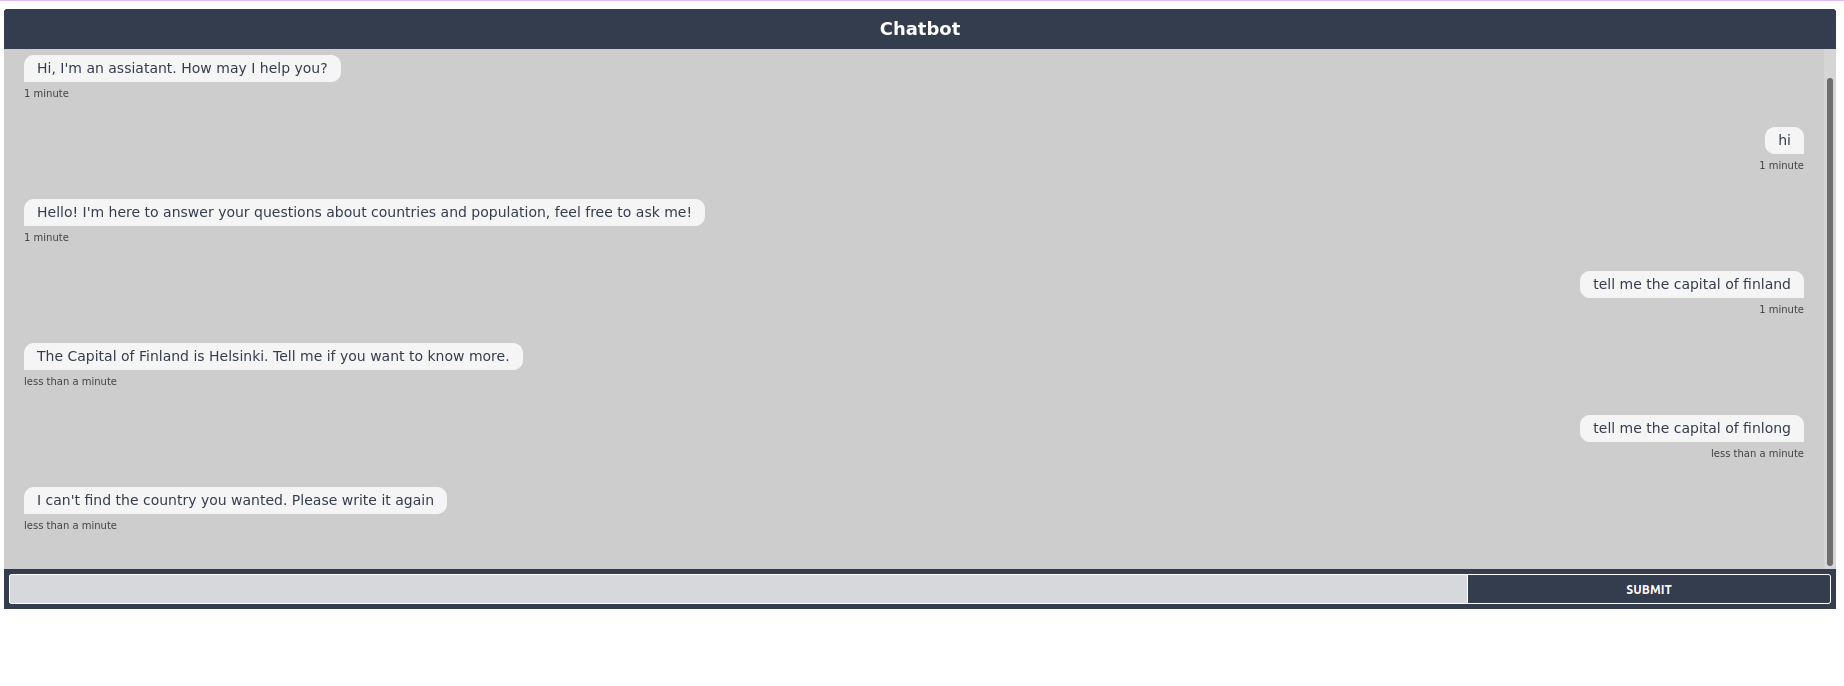
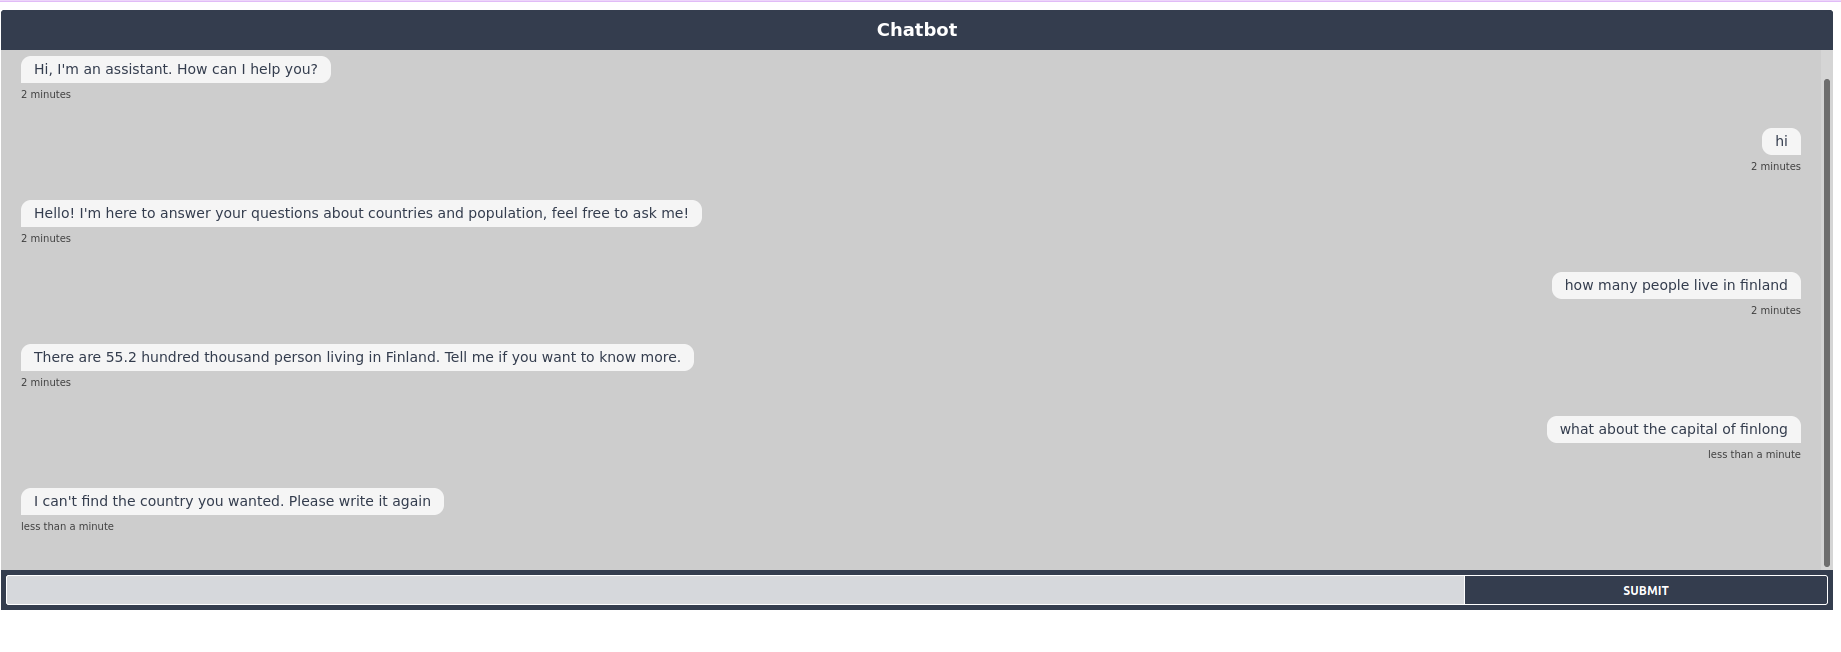
lakhs/crores

diff --git a/actions/actions.py b/actions/actions.py
@@ -8,6 +8,7 @@ from rasa_sdk.executor import CollectingDispatcher
 from rasa_sdk.knowledge_base.storage import InMemoryKnowledgeBase
 from rasa_sdk.knowledge_base.actions import ActionQueryKnowledgeBase
 from actions.country import check_country
+from actions.converter import convert
 
 class ActionCapital(Action):
 
@@ -61,7 +62,9 @@ class ActionPopulation(Action):
                     response = requests.post(client_pop, json ={'country':country})
                     if response.json()['success']==1:
                          population = response.json()['body']['population']
-                         dispatcher.utter_message(text=f"There are {population} person living in {country}. Tell me if you want to know more.")  		
+                         # this function to convert lakhs & crocres to an understandable values.
+                         number= convert(population)/10**6
+                         dispatcher.utter_message(text=f"The population of {country} is {number} million. Tell me if you want to know more.")  		
                     else:
                          dispatcher.utter_message(text=f"Very sorry, there's a problem right now :(")
                 break

diff --git a/actions/converter.py b/actions/converter.py
@@ -1,0 +1,24 @@
+import re
+
+
+def convert(s):
+    '''
+    this function converts lakhs and crores to more user-friendly numbers.
+    INPUT:
+     s: string from API ex: "1.07 lakhs"
+    OUTPUT:
+     number: the float number in the string
+     final_value: value converted in english numbering system
+    '''
+    number = re.findall(r"[0-9.]+",s)[0]
+    word = re.findall(r"[a-zA-Z]+",s)[0]
+    final_value = 0
+    if word == "lakhs":
+         final_value = 10 **5
+         # f'*10\N{SUPERSCRIPT FIVE}'#"hundred thousand"
+    elif word == "crores":
+         final_value = 10**7#"ten million"
+         
+    return float(number)* final_value
+    
+    
